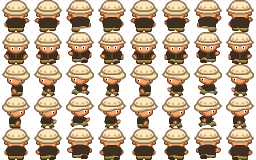
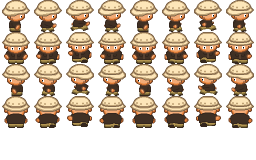
Finished Still needs mouse rotation

diff --git a/Assignment1/Assignment1.cs b/Assignment1/Assignment1.cs
@@ -4,7 +4,7 @@ using Microsoft.Xna.Framework.Graphics;
 using Microsoft.Xna.Framework.Input;
 
 using CPI311.GameEngine;
-using System.Net.Mime;
+using System.Diagnostics;
 
 namespace Assignment1
 {
@@ -14,11 +14,17 @@ namespace Assignment1
         private SpriteBatch _spriteBatch;
 
         // *** Assignment 1
+        int direction = 1;
         AnimatedSprite characterSprite;
         Sprite bonusSprite;
+        SpriteFont font;
 
         ProgressBar timeBar;
         ProgressBar distanceBar;
+
+        // for mouse movement
+        bool isThere = true;
+        Vector2 destination;
 
         Random random = new Random();
 
@@ -41,6 +47,8 @@ namespace Assignment1
         {
             _spriteBatch = new SpriteBatch(GraphicsDevice);
 
+            font = Content.Load<SpriteFont>("font");
+
             characterSprite = new AnimatedSprite(Content.Load<Texture2D>("explorer"), 8);
             characterSprite.Position = new Vector2(GraphicsDevice.Viewport.Width / 2, GraphicsDevice.Viewport.Height / 2);
             characterSprite.Source = new Rectangle(0, 32, 32, 32);
@@ -54,8 +62,10 @@ namespace Assignment1
             timeBar.Scale = new Vector2(3.0f, 1.0f);
             timeBar.Position = new Vector2(50, 25);
 
-            //distanceBar = new ProgressBar(Content.Load<Texture2D>("Square"));
-            //distanceBar.Position = new Vector2(70, 20);
+            distanceBar = new ProgressBar(Content.Load<Texture2D>("Square"));
+            distanceBar.FillColor = Color.Green;
+            distanceBar.Scale = new Vector2(3.0f, 1.0f);
+            distanceBar.Position = new Vector2(300, 25);
         }
 
         protected override void Update(GameTime gameTime)
@@ -68,47 +78,82 @@ namespace Assignment1
 
             timeBar.Value += Time.ElapsedGameTime;
 
-            if(Vector2.Distance(characterSprite.Position, bonusSprite.Position) < characterSprite.Source.Width)
+            if (InputManager.IsKeyPressed(Keys.F)) distanceBar.Value = 28;
+
+            // Collecting the bonus subtracts 2.3 seconds
+            if (Vector2.Distance(characterSprite.Position, bonusSprite.Position) < characterSprite.Source.Width)
             {
-                timeBar.Value -= 2;
-                bonusSprite.Position = new Vector2(random.Next(bonusSprite.Texture.Width, GraphicsDevice.Viewport.Width - bonusSprite.Texture.Width), 
-                                                   random.Next(bonusSprite.Texture.Height, GraphicsDevice.Viewport.Height - bonusSprite.Texture.Height));
+                timeBar.Value -= 2.3f;
+                bonusSprite.Position = new Vector2(random.Next(bonusSprite.Texture.Width, GraphicsDevice.Viewport.Width - bonusSprite.Texture.Width),
+                                                    random.Next(bonusSprite.Texture.Height, GraphicsDevice.Viewport.Height - bonusSprite.Texture.Height));
                 bonusSprite.Update();
+            }
+
+            // When the mouse is clicked
+            if (InputManager.IsMouseLeftClicked())
+            {
+                destination = InputManager.GetMousePosition();
+                isThere = false;
+            }
+
+            if (Vector2.Distance(characterSprite.Position, destination) < 1.5f) isThere = true;
+
+            if (!isThere)
+            {
+                // Move X first
+                if (characterSprite.Position.X > destination.X) characterSprite.Position -= 100 * Vector2.UnitX * Time.ElapsedGameTime;
+                if (characterSprite.Position.X < destination.X) characterSprite.Position += 100 * Vector2.UnitX * Time.ElapsedGameTime;
+
+                // When the x matches, then move Y
+                if(Math.Abs(characterSprite.Position.X - destination.X) < 1.5f)
+                {
+                    if (characterSprite.Position.Y > destination.Y) characterSprite.Position -= 100 * Vector2.UnitY * Time.ElapsedGameTime;
+                    if (characterSprite.Position.Y < destination.Y) characterSprite.Position += 100 * Vector2.UnitY * Time.ElapsedGameTime;
+                }
+
+                distanceBar.Value += 0.5f * Time.ElapsedGameTime;
+                distanceBar.Update();
+
+                characterSprite.Update();
             }
 
             // Character moving up
             if (InputManager.IsKeyDown(Keys.Up))
             {
-                characterSprite.Position -= 100 * Vector2.UnitY * Time.ElapsedGameTime;
-                characterSprite.Source = new Rectangle(0, 128, 32, 32);
+                if(direction == 0) characterSprite.Position += 100 * Vector2.UnitX * Time.ElapsedGameTime;
+                if(direction == 1) characterSprite.Position += 100 * Vector2.UnitY * Time.ElapsedGameTime;
+                if(direction == 2) characterSprite.Position -= 100 * Vector2.UnitX * Time.ElapsedGameTime;
+                if(direction == 3) characterSprite.Position -= 100 * Vector2.UnitY * Time.ElapsedGameTime;
                 characterSprite.Update();
-            }
 
-            // Character moving down
-            if (InputManager.IsKeyDown(Keys.Down))
-            {
-                characterSprite.Position += 100 * Vector2.UnitY * Time.ElapsedGameTime;
-                characterSprite.Source = new Rectangle(0, 32, 32, 32);
-                characterSprite.Update();
+                distanceBar.Value += 0.5f * Time.ElapsedGameTime;
+                distanceBar.Update();
             }
 
             // Character moving left
-            if (InputManager.IsKeyDown(Keys.Left))
+            if (InputManager.IsKeyPressed(Keys.Left))
             {
-                characterSprite.Position -= 100 * Vector2.UnitX * Time.ElapsedGameTime;
-                characterSprite.Source = new Rectangle(0, 64, 32, 32);
+                if (direction > 0) direction--;
+                else direction = 3;
+                characterSprite.Source = new Rectangle(0, direction * 32, 32, 32);
                 characterSprite.Update();
             }
 
             // Character moving right
-            if (InputManager.IsKeyDown(Keys.Right))
+            if (InputManager.IsKeyPressed(Keys.Right))
             {
-                characterSprite.Position += 100 * Vector2.UnitX * Time.ElapsedGameTime;
-                characterSprite.Source = new Rectangle(0, 96, 32, 32);
+                if (direction < 3) direction++;
+                else direction = 0;
+                characterSprite.Source = new Rectangle(0, direction * 32, 32, 32);
                 characterSprite.Update();
             }
 
             base.Update(gameTime);
+        }
+
+        public void MoveSprite()
+        {
+
         }
 
         protected override void Draw(GameTime gameTime)
@@ -117,11 +162,22 @@ namespace Assignment1
 
             _spriteBatch.Begin();
 
-            bonusSprite.Draw(_spriteBatch);
-            characterSprite.Draw(_spriteBatch);
+            if (distanceBar.Value <= 31)
+            {
+                if(timeBar.Value <= 31)
+                {
+                    bonusSprite.Draw(_spriteBatch);
+                    characterSprite.Draw(_spriteBatch);
 
-            timeBar.Draw(_spriteBatch);
-            //distanceBar.Draw(_spriteBatch);
+                    timeBar.Draw(_spriteBatch);
+                    distanceBar.Draw(_spriteBatch);
+
+                    _spriteBatch.DrawString(font, "Time Remaining", new Vector2(110, 20), Color.Black);
+                    _spriteBatch.DrawString(font, "Distance Traveled", new Vector2(360, 20), Color.Black);
+                }
+                else _spriteBatch.DrawString(font, "Game Over, Time is Up! Exit or press the escape key.", new Vector2(200, 240), Color.White);
+            }
+            else _spriteBatch.DrawString(font, "Game Over, you walked enough distance! Exit or press the escape key.", new Vector2(150, 240), Color.White);
 
             _spriteBatch.End();
 

diff --git a/GameEngine/InputManager.cs b/GameEngine/InputManager.cs
@@ -1,4 +1,5 @@
 using System;
+using Microsoft.Xna.Framework;
 using Microsoft.Xna.Framework.Input;
 
 namespace CPI311.GameEngine
@@ -32,7 +33,20 @@ namespace CPI311.GameEngine
         public static bool IsKeyPressed(Keys key)
         {
             return CurrentKeyboardState.IsKeyDown(key) &&
-            PreviousKeyboardState.IsKeyUp(key);
+                PreviousKeyboardState.IsKeyUp(key);
         }
+
+        public static bool IsMouseLeftClicked()
+        { 
+            return CurrentMouseState.LeftButton == ButtonState.Pressed
+                && PreviousMouseState.LeftButton != ButtonState.Pressed; 
+        }
+
+        public static bool IsMouseLeftDown()
+        {
+            return CurrentMouseState.LeftButton == ButtonState.Pressed;
+        }
+
+        public static Vector2 GetMousePosition() { return new Vector2(CurrentMouseState.X, CurrentMouseState.Y); }
     }
 }

diff --git a/GameEngine/AnimatedSprite.cs b/GameEngine/AnimatedSprite.cs
@@ -15,7 +15,7 @@ namespace CPI311.GameEngine
         {
             Frames = frames;
             Frame = 0;
-            Speed = 5;
+            Speed = 6;
 
             Source = new Rectangle(0, 0, 32, 32);
             Origin = new Vector2(Source.Width / 2, Source.Height / 2);

diff --git a/GameEngine/ProgressBar.cs b/GameEngine/ProgressBar.cs
@@ -1,10 +1,5 @@
 using Microsoft.Xna.Framework;
 using Microsoft.Xna.Framework.Graphics;
-using System;
-using System.Collections.Generic;
-using System.Linq;
-using System.Text;
-using System.Threading.Tasks;
 
 namespace CPI311.GameEngine
 {
